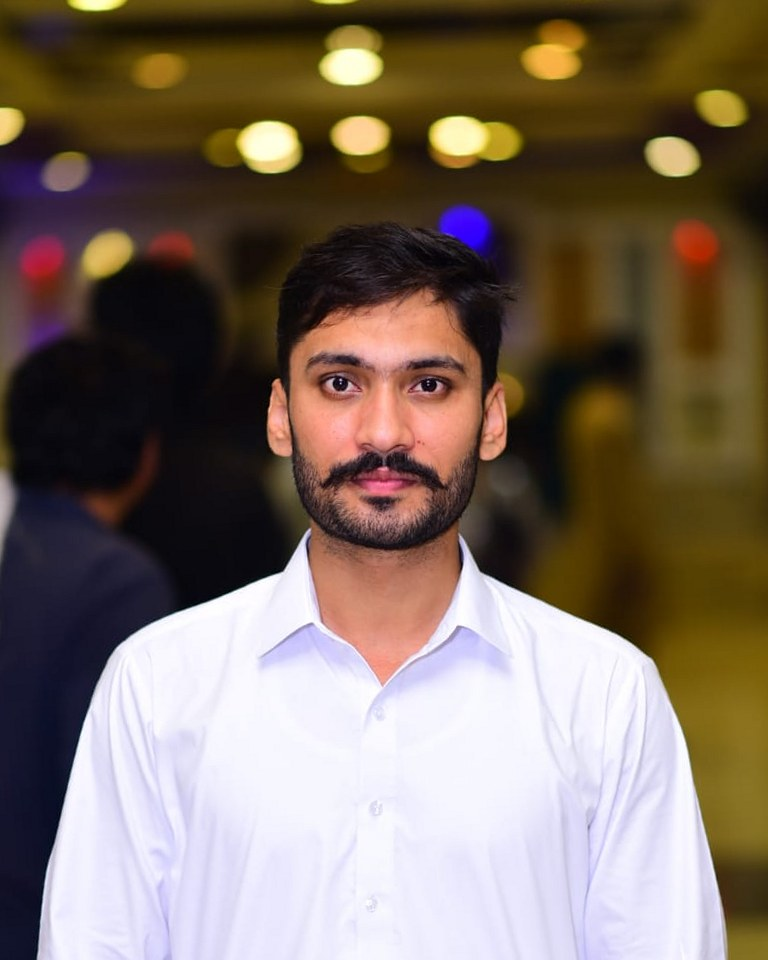
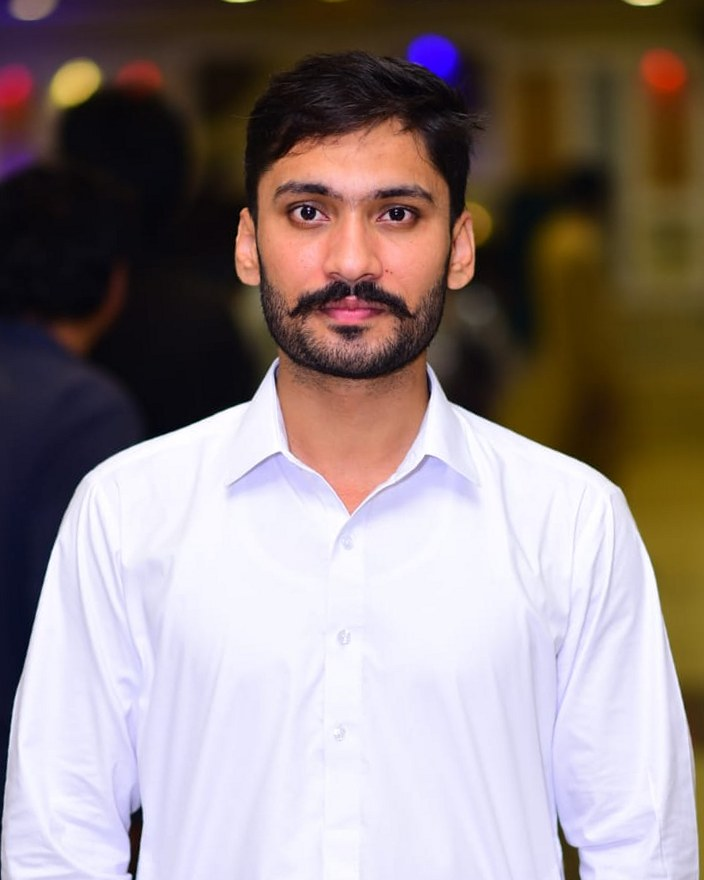
Tighter portrait crop and move hero notifications off the face

diff --git a/index.html b/index.html
@@ -146,8 +146,8 @@
       .notif b { display: block; font-size: 13px; font-weight: 600; }
       .notif span { font-size: 13px; color: var(--muted); line-height: 1.35; display: block; }
       .notif small { position: absolute; top: 10px; right: 14px; font-size: 11px; color: var(--muted); }
-      .notif.n1 { left: -56px; bottom: 96px; }
-      .notif.n2 { right: -36px; top: 40px; animation-delay: -3s; }
+      .notif.n1 { left: -56px; bottom: 64px; }
+      .notif.n2 { right: -36px; bottom: 34%; animation-delay: -3s; }
       @keyframes float { 50% { transform: translateY(-8px); } }
 
       /* ---------- Stats band ---------- */
@@ -338,7 +338,7 @@
         .stat { padding: 28px 16px; }
         .notif { max-width: 240px; padding: 10px 12px 10px 10px; }
         .notif img { width: 32px; height: 32px; }
-        .notif.n1 { left: 8px; bottom: 24px; } .notif.n2 { right: 8px; top: 16px; }
+        .notif.n1 { left: 8px; bottom: 20px; } .notif.n2 { right: 8px; bottom: 30%; }
         .form-row { grid-template-columns: 1fr; }
         form, .sheet { padding: 24px; }
         .sheet .kv { grid-template-columns: 1fr; }
